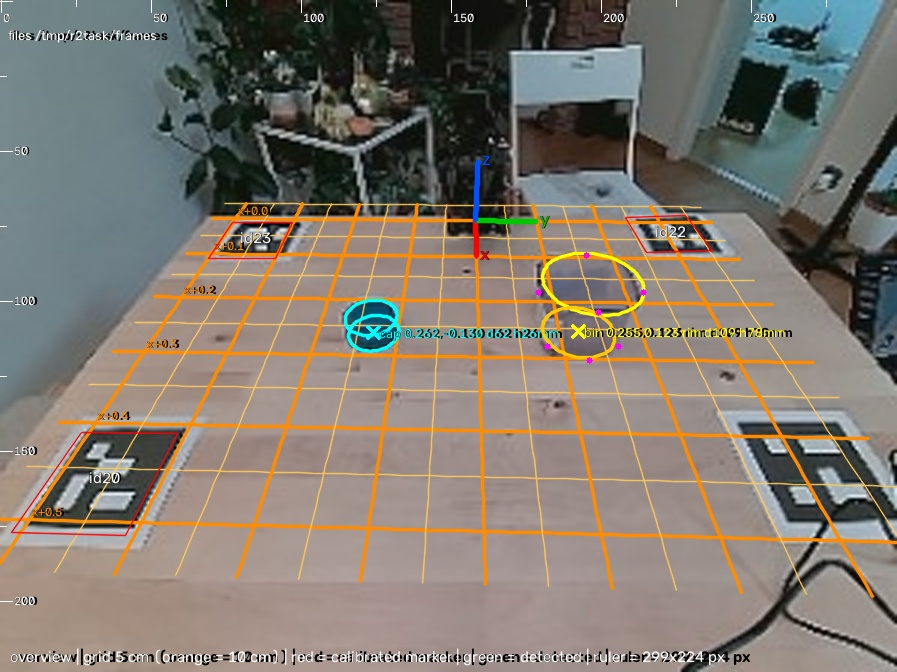
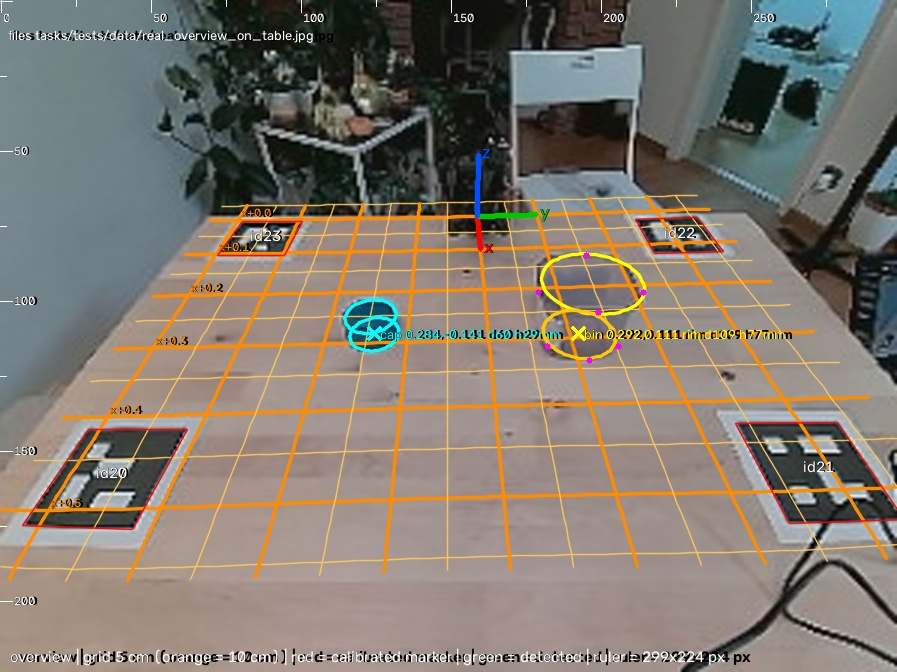
tasks/blue_to_bin: re-measure lid and tub under the 01:50 calibration; measure --frames single file; tests updated
Sim trials and BlueLocator fix not done (interrupted by full disk).

Changed region(s): [[0.0, 0.2812, 1.0, 0.875], [0.0312, 0.0312, 0.3746, 0.0625], [0.5307, 0.2188, 0.5619, 0.25]]

diff --git a/tasks/blue_to_bin/sim_trials.py b/tasks/blue_to_bin/sim_trials.py
@@ -56,7 +56,7 @@ def apply_pad_fix(inward_m: float = PAD_FIX_M, out_dir: Path | None = None) -> P
     return out
 
 
-def make_sim_executor(rec_root: Path, spec=None, pad_fix: bool = False):
+def make_sim_executor(rec_root: Path, spec=None, pad_fix: bool = False, layout: str = "home"):
     """Executor on the home twin with this task's locator and adapter skill (what the integrator would wire)."""
     if pad_fix:
         apply_pad_fix()
@@ -70,9 +70,9 @@ def make_sim_executor(rec_root: Path, spec=None, pad_fix: bool = False):
     from .task import Spec
     spec = spec or Spec.load()
     kin = Kinematics()
-    b = SimBackend(layout="home")
+    b = SimBackend(layout=layout)
     # max_frame_age 2 s: twin renders are slow on a loaded laptop (the real backend keeps the executor default)
-    ex = Executor(b, kin, recorder=RecorderLink("local", root=rec_root), locator=BlueLocator(spec), layout="home",
+    ex = Executor(b, kin, recorder=RecorderLink("local", root=rec_root), locator=BlueLocator(spec), layout=layout,
                   table_memory_path=rec_root / "table_memory.json", max_frame_age=2.0)
     install(ex)
     return ex, b, kin, spec
@@ -116,12 +116,14 @@ def main():
     ap.add_argument("--twin-pad-fix", action="store_true", help="apply the proposed fingertip-pad change (see apply_pad_fix)")
     ap.add_argument("--frames-dir", help="save overview + wrist frames after the key steps of every trial here")
     ap.add_argument("--out", default=str(RESULTS / "sim_scripted.json"))
+    ap.add_argument("--layout", default="home", help="twin layout name or file (its overview camera must match scene_calib)")
     a = ap.parse_args()
     import tempfile
     rec_root = Path(tempfile.mkdtemp(prefix="blue_to_bin_rec_"))
-    ex, b, kin, spec = make_sim_executor(rec_root, pad_fix=a.twin_pad_fix)
+    ex, b, kin, spec = make_sim_executor(rec_root, pad_fix=a.twin_pad_fix, layout=a.layout)
     from .plan import Runner
-    from .task import truth_in_bin
+    from .task import MEASURED, truth_in_bin
+    cap0 = json.loads(MEASURED.read_text())["blue_cap"]["centre_xy"]
     trials = []
     for k in range(1, a.trials + 1):
         b.arm.rng = np.random.default_rng(a.seed * 1000 + k)
@@ -150,7 +152,7 @@ def main():
         t1 = truth_world(b, kin)
         ok = truth_in_bin(spec, t1["blue_cap"], t1["bin_tub"])
         bin_moved = 1000 * float(np.linalg.norm(np.subtract(t1["bin_tub"][:2], t0["bin_tub"][:2])))
-        row = {"trial": k, "start_cap_world": t0["blue_cap"], "offset_mm": np.round(1000 * (np.array(t0["blue_cap"][:2]) - [0.2619, -0.1298]), 1).tolist(),
+        row = {"trial": k, "start_cap_world": t0["blue_cap"], "offset_mm": np.round(1000 * (np.array(t0["blue_cap"][:2]) - cap0), 1).tolist(),
                "perturbed": k in a.perturb, "predicate_success": rep["success"], "truth_in_bin": ok, "end_truth": t1,
                "bin_moved_mm": round(bin_moved, 1), "attempts": rep["attempts"], "seconds": rep["seconds"],
                "proposals": rep["proposals"], "why": rep["why"], "mode": classify(rep, ok, bin_moved), "report": rep}
@@ -165,7 +167,7 @@ def main():
                "attempts_hist": {n: sum(1 for t in trials if t["attempts"] == n) for n in range(1, spec.max_attempts + 1)},
                "modes": {m: sum(1 for t in trials if t["mode"] == m) for m in sorted({t["mode"] for t in trials})},
                "step_seconds_median": step_medians(trials), "spec": spec.to_dict(), "seed": a.seed,
-               "twin_pad_fix_m": PAD_FIX_M if a.twin_pad_fix else 0.0}
+               "twin_pad_fix_m": PAD_FIX_M if a.twin_pad_fix else 0.0, "layout": a.layout}
     out = Path(a.out)
     out.parent.mkdir(parents=True, exist_ok=True)
     out.write_text(json.dumps({"summary": summary, "trials": trials}, indent=1, default=str))

diff --git a/tasks/blue_to_bin/measure.py b/tasks/blue_to_bin/measure.py
@@ -3,7 +3,7 @@
     uv run --no-project --with numpy --with scipy --with opencv-contrib-python \
         python -m tasks.blue_to_bin.measure --tail 10          # newest 10 stored frames (works while video is down)
     ... python -m tasks.blue_to_bin.measure --live 10          # next 10 live frames (one subscription)
-    ... python -m tasks.blue_to_bin.measure --frames DIR       # overview*.jpg in DIR
+    ... python -m tasks.blue_to_bin.measure --frames DIR       # overview*.jpg in DIR (or one JPEG file)
 
 Blue cap: colour silhouette (perception.locate.segment, "blue") -> an upright cylinder (centre x, y, radius, height)
 whose projection has the same extreme pixels (left, right, top, bottom) as the silhouette.
@@ -189,7 +189,8 @@ async def _station_frames(n: int, tail: bool) -> list[bytes]:
 
 def load_frames(args) -> tuple[list[np.ndarray], str]:
     if args.frames:
-        files = sorted(Path(args.frames).glob("overview*.jpg")) or sorted(Path(args.frames).glob("*.jpg"))
+        p = Path(args.frames)
+        files = [p] if p.is_file() else sorted(p.glob("overview*.jpg")) or sorted(p.glob("*.jpg"))
         return [cv2.imread(str(f)) for f in files], f"files {args.frames}"
     jpgs = asyncio.run(_station_frames(args.tail or args.live, bool(args.tail)))
     src = f"Station {'newest stored' if args.tail else 'live'} overview entries x{len(jpgs)}"
@@ -201,7 +202,7 @@ def main():
     src = ap.add_mutually_exclusive_group(required=True)
     src.add_argument("--tail", type=int, help="newest N stored overview frames")
     src.add_argument("--live", type=int, help="next N live overview frames")
-    src.add_argument("--frames", help="directory of overview JPEGs")
+    src.add_argument("--frames", help="directory of overview JPEGs, or one JPEG")
     ap.add_argument("--bin-pixels", help="JSON with rim_left/right/far/near and base_left/right/near pixels")
     ap.add_argument("--out", default=str(OUT))
     args = ap.parse_args()

diff --git a/tasks/tests/test_blue_to_bin_perception.py b/tasks/tests/test_blue_to_bin_perception.py
@@ -39,7 +39,7 @@ def test_background_blue_is_ignored(loc):
     """The top-right of the overview has a blue patch (off the table) larger than the lid."""
     r = BlueLocator(Spec.load()).fit(cv2.imread(str(ON_TABLE)))
     assert r["ok"] and abs(r["z_base"]) < 0.005
-    assert np.allclose(r["xyz"][:2], [0.2619, -0.1298], atol=0.01)
+    assert np.allclose(r["xyz"][:2], [0.2836, -0.1409], atol=0.01)   # measured.json, scene_calib 01:50
 
 
 def test_predicate_on_real_frames():
